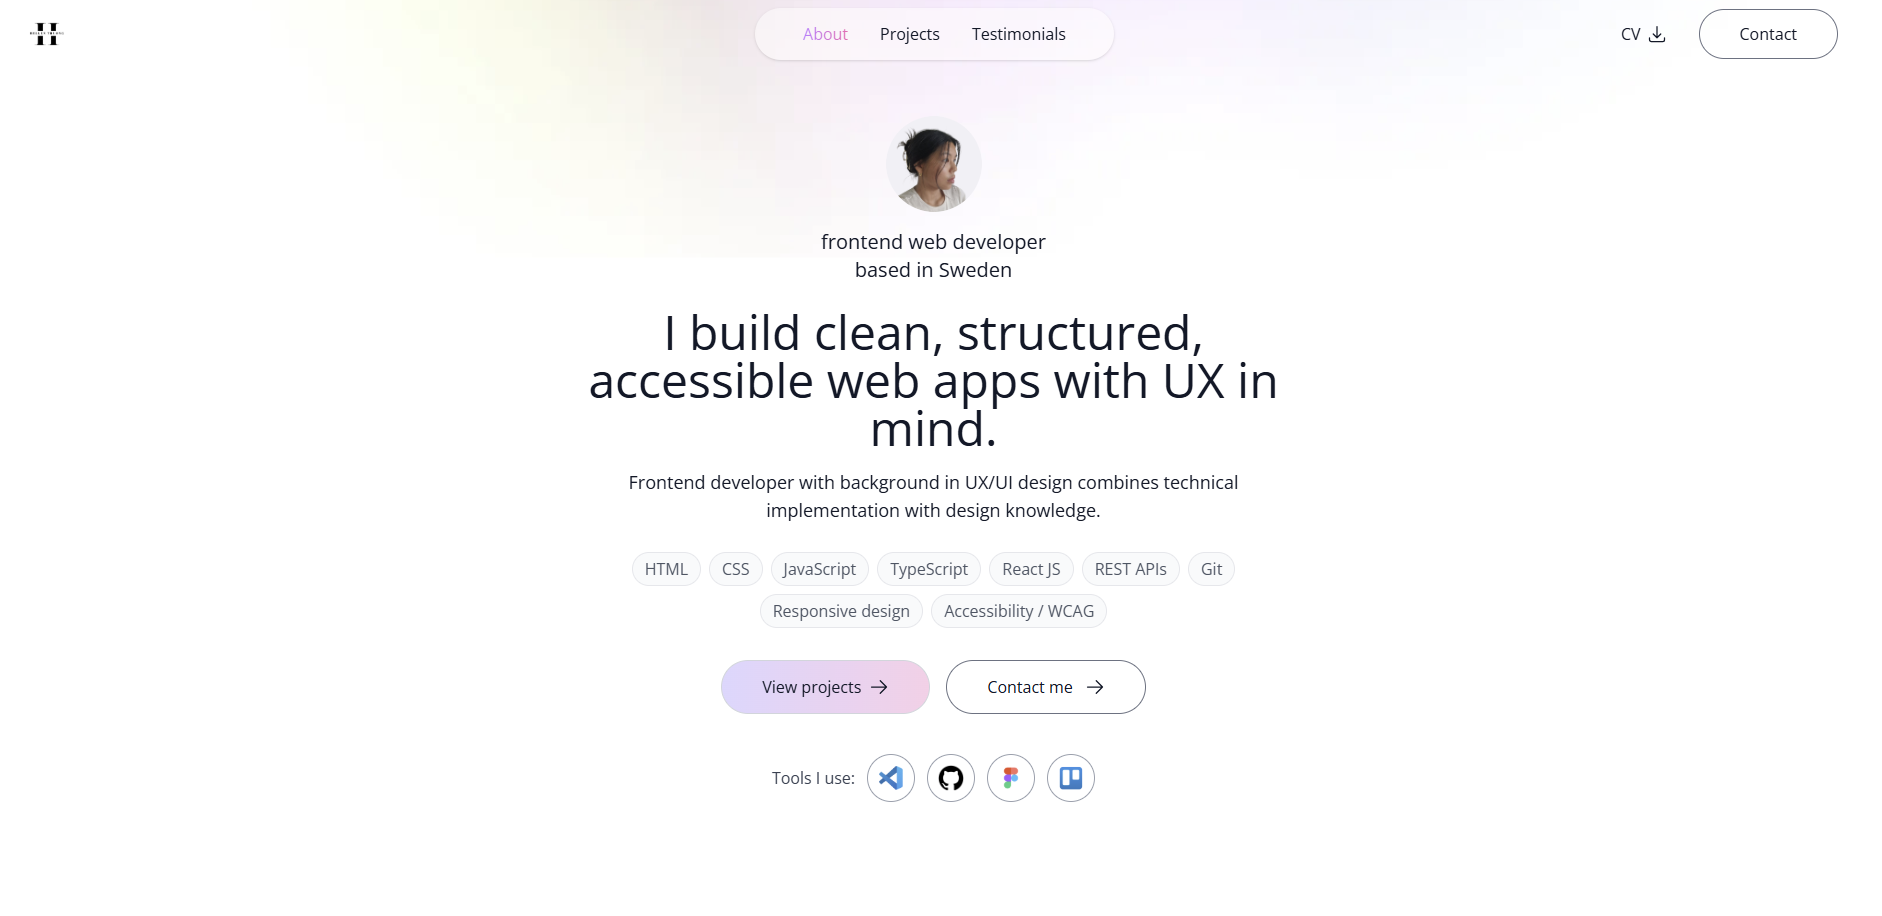
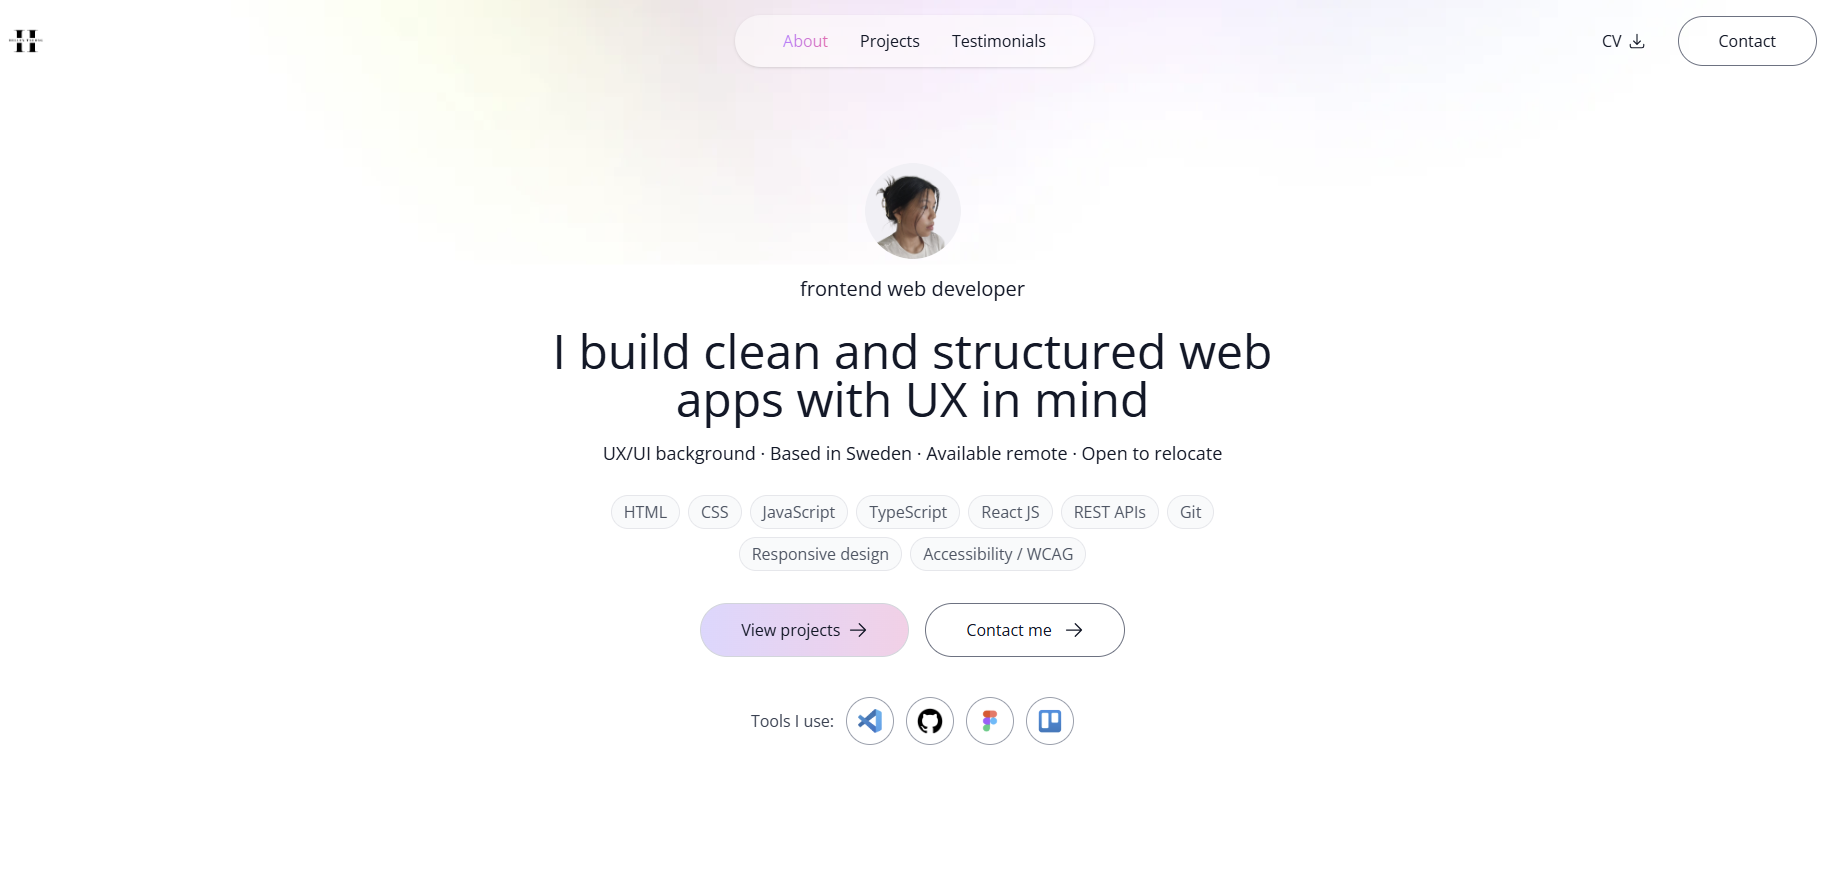
update site

diff --git a/index.html b/index.html
@@ -146,7 +146,7 @@
             class="flex items-center gap-1.5 cursor-pointer"
             >CV
             <span class="sr-only">PDF document, downloads CV</span>
-            <svg class="w-5 h-5" aria-hidden="true">
+            <svg class="w-4.5 h-4.5" aria-hidden="true">
               <use href="#icon-download"></use>
             </svg>
           </a>
@@ -201,7 +201,7 @@
 
       <!-- --------------------- Hero --------------------- -->
       <div
-        class="w-11/12 max-w-3xl text-center pt-14 pb-20 mx-auto min-h-screen flex flex-col items-center justify-center gap-4"
+        class="w-11/12 max-w-3xl text-center pt-14 sm:pt-20 pb-20 mx-auto min-h-screen flex flex-col items-center justify-center gap-4"
       >
         <img
           src="./images/profile.png"
@@ -210,10 +210,11 @@
         />
         <p class="text-lg md:text-xl mb-2">frontend web developer</p>
         <h1 class="text-3xl md:text-5xl font-medium md:font-normal">
-          I build clean and structured web apps with UX in mind.
+          I build clean and structured web apps with UX in mind
         </h1>
         <p class="md:text-lg max-w-2xl mx-auto">
-          UX/UI background. Based in Sweden. Available remote. Open to relocate.
+          UX/UI background · Based in Sweden · Available remote · Open to
+          relocate
         </p>
 
         <ul
@@ -330,7 +331,7 @@
     </header>
 
     <!-- --------------------- Project section --------------------- -->
-    <section id="projects" class="section w-full px-4 py-10 scroll-mt-20">
+    <section id="projects" class="section w-full px-4 py-20 scroll-mt-10">
       <p class="text-lg md:text-xl text-center mb-2">My Work</p>
       <h2 class="text-3xl md:text-5xl text-center">Projects</h2>
       <p class="md:text-lg text-center max-w-2xl mx-auto mt-5 mb-12">
@@ -627,7 +628,7 @@
     </section>
 
     <!-- --------------------- Testimonial section --------------------- -->
-    <section id="testimonials" class="section w-full px-4 py-10 scroll-mt-20">
+    <section id="testimonials" class="section w-full px-4 py-20 scroll-mt-10">
       <p class="text-lg md:text-xl text-center mb-2">What Others Say</p>
       <h2 class="text-3xl md:text-5xl text-center">Testimonials</h2>
       <p class="md:text-lg text-center max-w-2xl mx-auto mt-5 mb-12">
@@ -655,7 +656,7 @@
     <!-- --------------------- Contact section --------------------- -->
     <section
       id="contact"
-      class="section w-full px-4 py-10 scroll-mt-20 bg-[url('./images/footer-bg-color.png')] bg-no-repeat bg-cover bg-center"
+      class="section w-full px-4 py-20 scroll-mt-10 bg-[url('./images/footer-bg-color.png')] bg-no-repeat bg-cover bg-center"
     >
       <p class="text-lg md:text-xl text-center mb-2">Let's Talk</p>
       <h2 class="text-3xl md:text-5xl text-center">Contact</h2>
@@ -712,7 +713,7 @@
     </section>
 
     <!-- --------------------- Footer section --------------------- -->
-    <section id="footer" class="mt-20">
+    <section id="footer" class="mt-30">
       <div class="text-center">
         <img src="./images/logo.png" alt="" class="w-12 mb-4 mx-auto" mx-auto />
         <address class="not-italic">

diff --git a/script.js b/script.js
@@ -24,16 +24,6 @@ window.addEventListener("scroll", () => {
   }
 });
 
-// const isMobile = window.innerWidth < 768;
-
-// const threshold = isMobile ? 0.5 : 0.9;
-
-const width = window.innerWidth;
-
-const threshold = width < 855 ? 0.3 : 0.9;
-
-// const threshold = width < 640 ? 0.2 : width < 854 ? 0.5 : 0.9;
-
 const observer = new IntersectionObserver(
   (entries) => {
     console.log(entries);
@@ -66,7 +56,14 @@ const observer = new IntersectionObserver(
       }
     });
   },
-  { threshold: threshold },
+  { threshold: 0, rootMargin: "-40% 0px -40% 0px" },
 );
 
 sections.forEach((section) => observer.observe(section));
+
+window.addEventListener("load", () => {
+  sections.forEach((section) => {
+    observer.unobserve(section);
+    observer.observe(section);
+  });
+});
